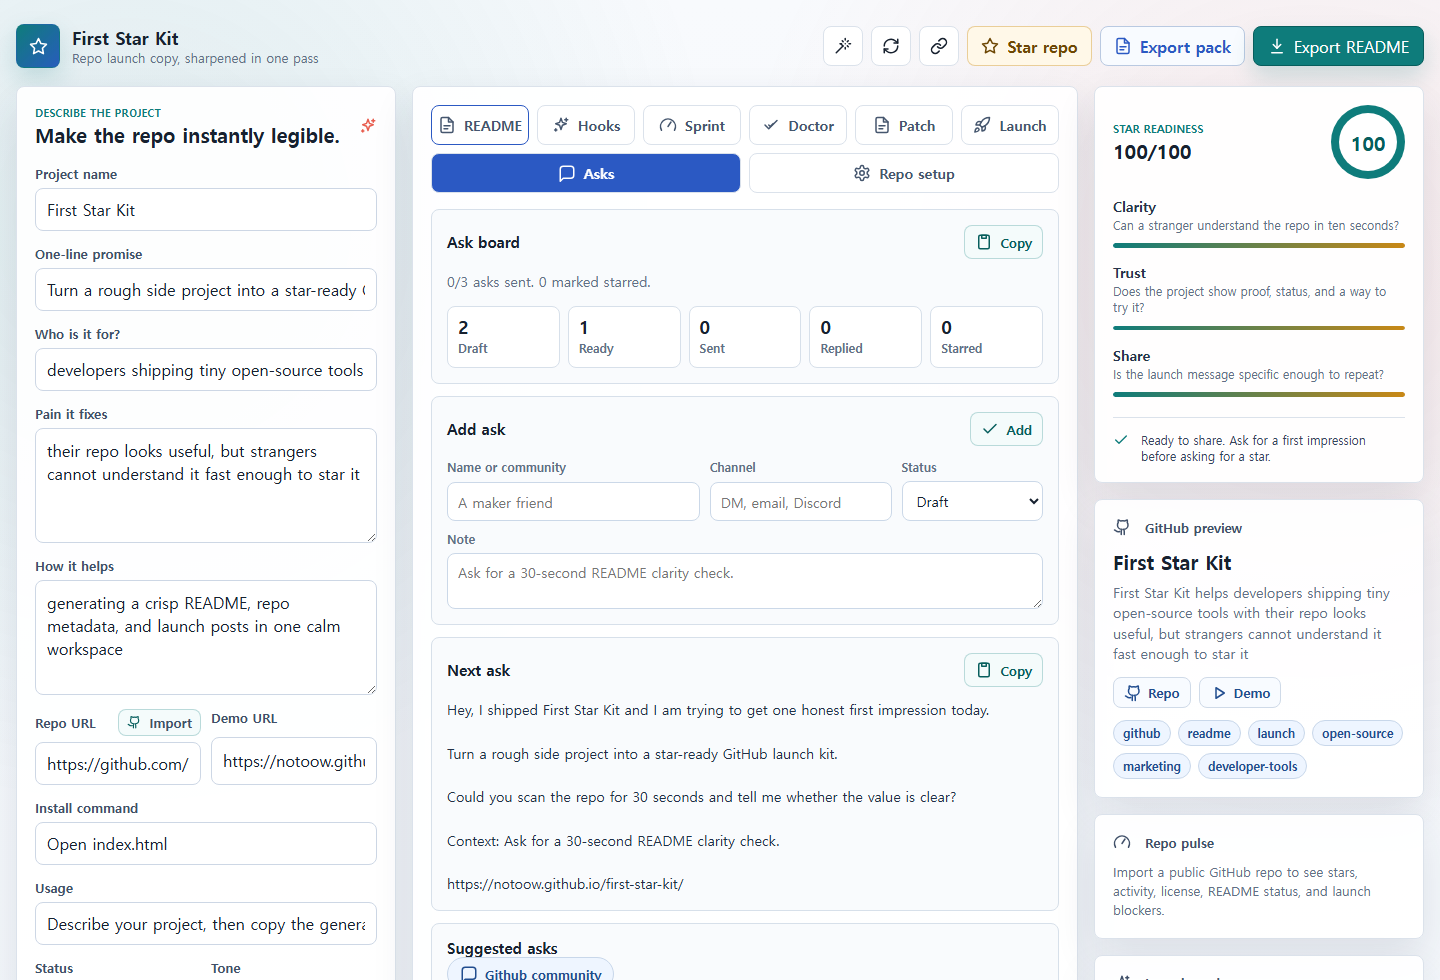
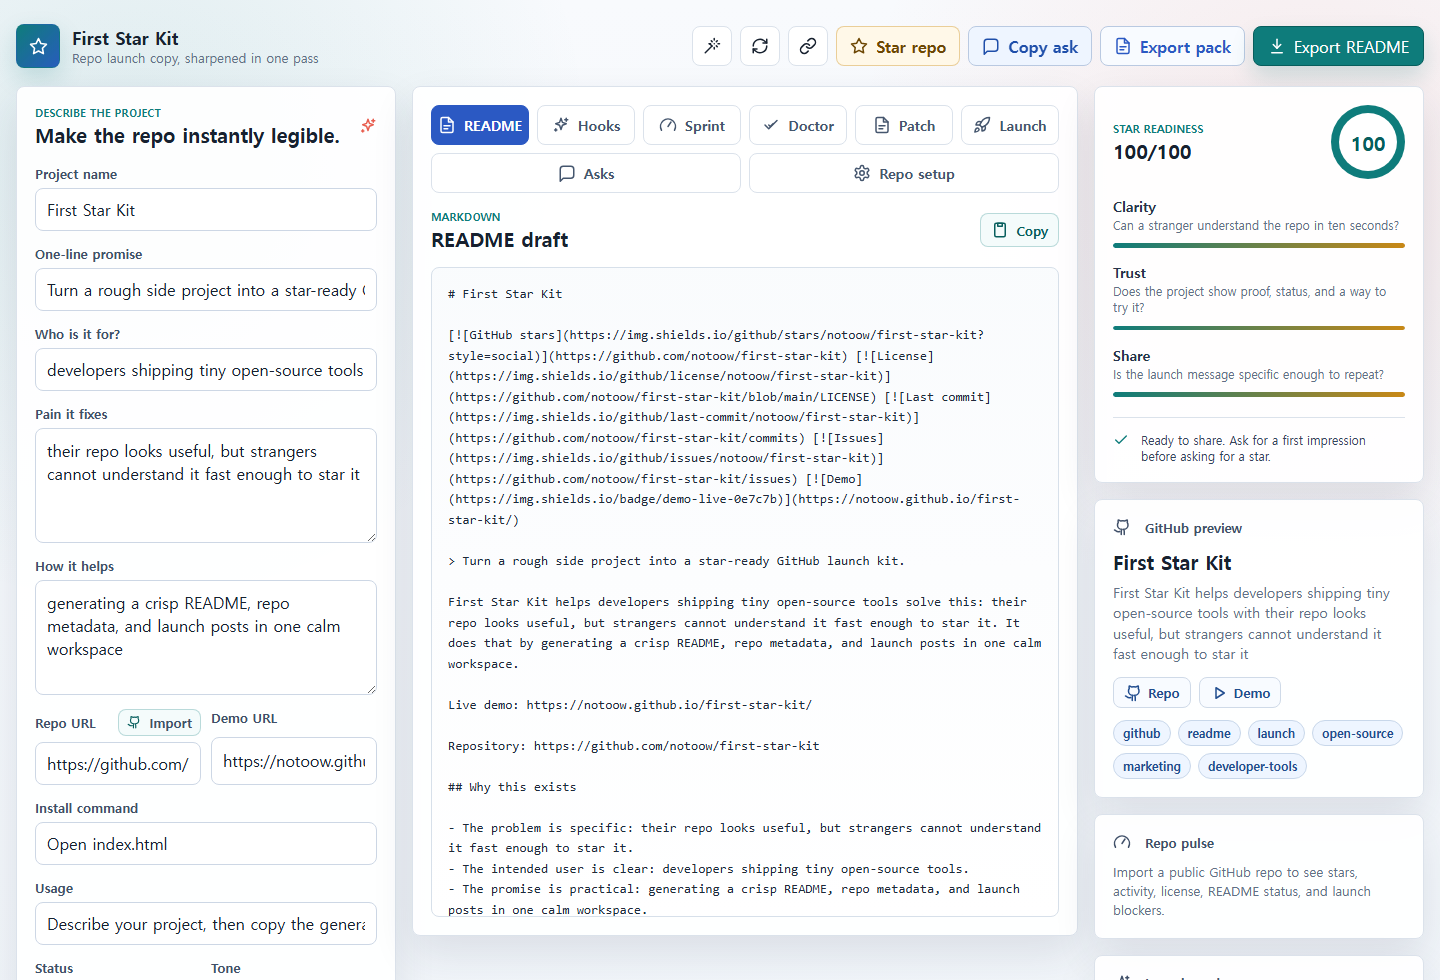
add first star ask copy action

diff --git a/src/app.js b/src/app.js
@@ -559,6 +559,17 @@ Could you scan the repo for 30 seconds and tell me whether the value is clear?${
 ${link}`;
 }
 
+function buildFirstStarAsk(data) {
+  const name = data.projectName.trim() || "my open-source project";
+  const repo = hasUrl(data.repoUrl) ? data.repoUrl.trim() : primaryShareUrl(data);
+
+  return `I am trying to earn the first GitHub star for ${name}.
+
+Could you scan it for 30 seconds and star it if the value is clear?
+
+${repo}`;
+}
+
 function buildAskBoardMarkdown(data, includeTitle = true) {
   const board = buildAskBoard(data);
   const rows = board.targets.length
@@ -1492,6 +1503,7 @@ function textForCopy(key) {
   const askBoard = buildAskBoard(state);
 
   if (key === "readme") return readme;
+  if (key === "firstStarAsk") return buildFirstStarAsk(state);
   if (key === "launchLinks") return launchLinks.map((link) => `${link.label}: ${link.href}`).join("\n");
   if (key.startsWith("post:")) return posts[Number(key.split(":")[1])].text;
   if (key.startsWith("hook:")) return hooks[Number(key.split(":")[1])].text;
@@ -1976,6 +1988,11 @@ document.addEventListener("click", (event) => {
   if (action.dataset.action === "copy-kit-link") {
     copyText(buildKitLink(), null);
     showToast("Kit link copied");
+  }
+
+  if (action.dataset.action === "copy-first-star-ask") {
+    copyText(buildFirstStarAsk(state), null);
+    showToast("First-star ask copied");
   }
 
   if (action.dataset.action === "add-ask") {

diff --git a/index.html b/index.html
@@ -16,7 +16,7 @@
     <meta property="og:url" content="https://notoow.github.io/first-star-kit/" />
     <meta name="twitter:card" content="summary_large_image" />
     <title>First Star Kit</title>
-    <link rel="stylesheet" href="./src/styles.css?v=20260511l" />
+    <link rel="stylesheet" href="./src/styles.css?v=20260511m" />
   </head>
   <body>
     <svg aria-hidden="true" class="svg-sprite">
@@ -125,6 +125,10 @@
             <svg class="icon"><use href="#i-star"></use></svg>
             <span>Star repo</span>
           </a>
+          <button class="secondary-action" type="button" data-action="copy-first-star-ask">
+            <svg class="icon"><use href="#i-message"></use></svg>
+            <span>Copy ask</span>
+          </button>
           <button class="secondary-action" type="button" data-action="export-pack">
             <svg class="icon"><use href="#i-file"></use></svg>
             <span>Export pack</span>
@@ -360,6 +364,6 @@
       </section>
     </main>
 
-    <script src="./src/app.js?v=20260511l"></script>
+    <script src="./src/app.js?v=20260511m"></script>
   </body>
 </html>

diff --git a/README.md b/README.md
@@ -20,6 +20,7 @@ Getting a first GitHub star is often less about the code and more about whether 
 
 - Live README generator
 - Prominent live-demo Star repo button for turning visitors into stargazers
+- One-click first-star ask copy for sending a clear request fast
 - Public GitHub repo import for name, description, topics, homepage, license, and quick-start hints
 - Repo Pulse for stars, forks, issue count, recent activity, README, license, homepage, and topics
 - README badge strip generator for stars, license, last commit, issues, and demo
